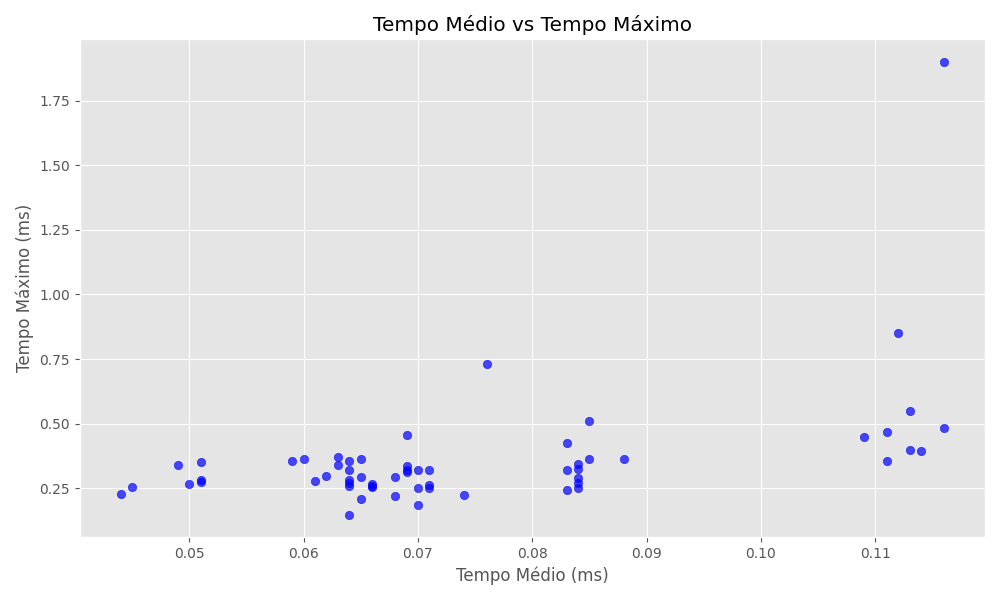
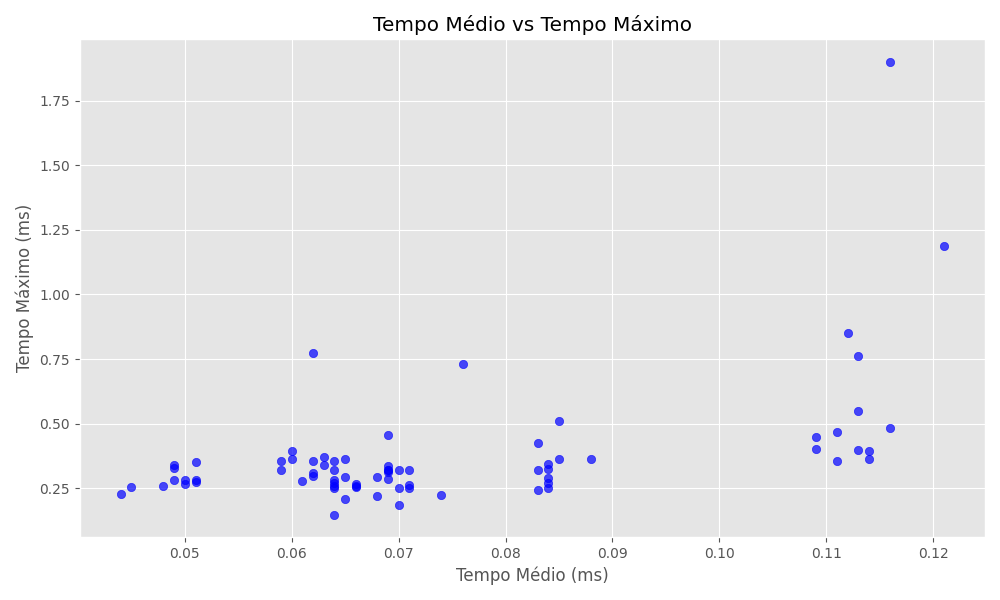
Save novos graficos

diff --git a/generate_graphics.py b/generate_graphics.py
@@ -1,10 +1,12 @@
 import pandas as pd
 import matplotlib.pyplot as plt
+import seaborn as sns
+from math import pi
 
 
-def genrate_praphics(arquivo_csv):
+def generate_graphics(arquivo_csv):
     """
-    Gera gráficos a partir de um arquivo CSV com métricas de desempenho.
+    Gera gráficos avançados para análise de desempenho a partir de um arquivo CSV.
 
     Parâmetros:
     - arquivo_csv (str): Caminho para o arquivo CSV contendo os dados.
@@ -13,58 +15,116 @@ def genrate_praphics(arquivo_csv):
         # Carregar o CSV em um DataFrame
         df = pd.read_csv(arquivo_csv)
 
-        # Configuração do estilo do gráfico (opcional)
+        # Configuração do estilo do gráfico
         plt.style.use("ggplot")
 
-        # 1. Gráfico de Linha para o Tempo Total de Execução
-        plt.figure(figsize=(10, 6))
-        plt.plot(
-            df["indentifier"],
-            df["tempo_de_execucao_total_ms"],
-            marker="o",
-            label="Tempo Total de Execução (ms)",
+        # 1. Resumo Estatístico
+        summary = df.groupby(["local_execucao", "comando"]).agg(
+            media=("tempo_execucao_total_ms", "mean"),
+            mediana=("tempo_execucao_total_ms", "median"),
+            minimo=("tempo_execucao_total_ms", "min"),
+            maximo=("tempo_execucao_total_ms", "max"),
+            desvio=("tempo_execucao_total_ms", "std"),
         )
-        plt.title("Tempo Total de Execução por Identificador")
-        plt.xlabel("Identificador")
+        print("Resumo Estatístico:")
+        print(summary)
+
+        # 2. Heatmap para Comparação de Desempenho
+        pivot = df.pivot_table(
+            index="comando",
+            columns="numero_requisicoes",
+            values="tempo_execucao_total_ms",
+            aggfunc="mean",
+        )
+        plt.figure(figsize=(12, 8))
+        sns.heatmap(pivot, annot=True, fmt=".2f", cmap="coolwarm")
+        plt.title("Heatmap: Tempo Médio de Execução por Comando e Requisição")
+        plt.xlabel("Número de Requisições")
+        plt.ylabel("Comando")
+        plt.tight_layout()
+        plt.savefig("heatmap_tempo_execucao.png")
+
+        # 3. Gráfico de Velocidade Relativa
+        df["relativo"] = df.groupby("comando")["tempo_execucao_total_ms"].transform(
+            lambda x: x / x.min()
+        )
+        plt.figure(figsize=(10, 6))
+        sns.boxplot(
+            x="local_execucao",
+            y="relativo",
+            data=df,
+            palette="muted",
+        )
+        plt.title("Velocidade Relativa por Local de Execução")
+        plt.xlabel("Local de Execução")
+        plt.ylabel("Velocidade Relativa")
+        plt.tight_layout()
+        plt.savefig("velocidade_relativa.png")
+
+        # 4. Distribuição de Tempos com Violin Plot
+        plt.figure(figsize=(12, 8))
+        sns.violinplot(
+            x="numero_requisicoes",
+            y="tempo_execucao_total_ms",
+            hue="local_execucao",
+            data=df,
+            split=True,
+            palette="muted",
+        )
+        plt.title("Distribuição de Tempo por Número de Requisições e Local")
+        plt.xlabel("Número de Requisições")
         plt.ylabel("Tempo Total de Execução (ms)")
-        plt.xticks(rotation=45)
-        plt.legend()
-        plt.grid(True)
         plt.tight_layout()
-        plt.savefig("tempo_total_execucao.png")
-        plt.show()
+        plt.savefig("distribuicao_tempo.png")
 
-        # 2. Gráfico de Dispersão para Tempo Médio vs Tempo Máximo
+        # 5. Evolução do Tempo Médio com Erro
+        means = df.groupby("numero_requisicoes")["tempo_execucao_total_ms"].mean()
+        stds = df.groupby("numero_requisicoes")["tempo_execucao_total_ms"].std()
         plt.figure(figsize=(10, 6))
-        plt.scatter(
-            df["tempo_medio_ms"], df["tempo_maximo_ms"], color="blue", alpha=0.7
+        plt.errorbar(
+            means.index,
+            means,
+            yerr=stds,
+            fmt="o-",
+            capsize=5,
+            label="Tempo Médio (ms)",
         )
-        plt.title("Tempo Médio vs Tempo Máximo")
-        plt.xlabel("Tempo Médio (ms)")
-        plt.ylabel("Tempo Máximo (ms)")
+        plt.title("Evolução do Tempo Médio com Margem de Erro")
+        plt.xlabel("Número de Requisições")
+        plt.ylabel("Tempo Médio de Execução (ms)")
         plt.grid(True)
-        plt.tight_layout()
-        plt.savefig("tempo_medio_vs_maximo.png")
-        plt.show()
-
-        # 3. Gráfico de Barras para Desvio Padrão
-        plt.figure(figsize=(10, 6))
-        plt.bar(
-            df["indentifier"],
-            df["desvio_padrao_ms"],
-            color="orange",
-            label="Desvio Padrão (ms)",
-        )
-        plt.title("Desvio Padrão por Identificador")
-        plt.xlabel("Identificador")
-        plt.ylabel("Desvio Padrão (ms)")
-        plt.xticks(rotation=45)
         plt.legend()
         plt.tight_layout()
-        plt.savefig("desvio_padrao.png")
-        plt.show()
+        plt.savefig("evolucao_tempo_medio.png")
 
-        print("Gráficos gerados com sucesso e salvos como imagens!")
+        # 6. Radar Chart para Comparação Geral
+        metrics = ["tempo_execucao_total_ms", "tempo_medio_ms", "desvio_padrao_ms"]
+        summary_radar = df.groupby("local_execucao")[metrics].mean()
+
+        # Preparar dados para radar
+        labels = summary_radar.columns
+        num_vars = len(labels)
+        angles = [n / float(num_vars) * 2 * pi for n in range(num_vars)]
+        angles += angles[:1]
+
+        plt.figure(figsize=(8, 8))
+        ax = plt.subplot(111, polar=True)
+        for idx, row in summary_radar.iterrows():
+            values = row.tolist() + row.tolist()[:1]
+            ax.plot(angles, values, label=idx)
+            ax.fill(angles, values, alpha=0.1)
+
+        plt.xticks(angles[:-1], labels)
+        plt.title("Comparação de Desempenho por Local")
+        plt.legend(loc="upper right")
+        plt.tight_layout()
+        plt.savefig("radar_comparacao.png")
+
+        print("Gráficos avançados gerados com sucesso e salvos como imagens!")
 
     except Exception as e:
         print(f"Erro ao gerar gráficos: {e}")
+
+
+# Exemplo de uso
+# generate_advanced_graphics("resultados.csv")

diff --git a/main_script.py b/main_script.py
@@ -3,7 +3,7 @@ import json
 import os
 from parse_argument import get_argments
 from save_csv import save_csv
-from generate_graphics import genrate_praphics
+from generate_graphics import generate_graphics
 
 
 # Função para executar scripts usando Docker Compose
@@ -54,9 +54,18 @@ def execute_docker_compose(
         # Executa o comando
         resultado = subprocess.run(docker_command, text=True, capture_output=True)
 
+        # Verifica se houve escrita em tela ou em arquivo
+        print_written = bool(resultado.stdout.strip())
+        file_written = os.path.exists(output_file)
+
         # Estrutura os resultados em um dicionário
         new_output = {
-            "indentifier": " ".join(["docker", str(requests), command]),
+            "execution_location": "docker",
+            "requests": requests,
+            "command": command,
+            "keep": keep,
+            "print_written": print_written,
+            "file_written": file_written,
             "stdout": resultado.stdout.strip(),
             "stderr": resultado.stderr.strip(),
             "returncode": resultado.returncode,
@@ -67,8 +76,7 @@ def execute_docker_compose(
 
     except Exception as e:
         print(f"Erro ao executar o comando Docker: {e}")
-
-    compose_down(compose_file)
+    ...
 
 
 # Função para executar scripts localmente
@@ -111,9 +119,18 @@ def execute_local(
         # Executa o comando localmente
         resultado = subprocess.run(local_command, text=True, capture_output=True)
 
+        # Verifica se houve escrita em tela ou em arquivo
+        print_written = bool(resultado.stdout.strip())
+        file_written = os.path.exists(output_file)
+
         # Estrutura os resultados em um dicionário
         new_output = {
-            "indentifier": " ".join(["local", str(requests), command]),
+            "execution_location": "local",
+            "requests": requests,
+            "command": command,
+            "keep": keep,
+            "print_written": print_written,
+            "file_written": file_written,
             "stdout": resultado.stdout.strip(),
             "stderr": resultado.stderr.strip(),
             "returncode": resultado.returncode,
@@ -169,4 +186,4 @@ if __name__ == "__main__":
             output_file=args.output_file,
         )
 
-    genrate_praphics(args.output_file)  # TODO: Melhoria nos gráficos
+    generate_graphics(args.output_file)  # TODO: Melhoria nos gráficos

diff --git a/save_csv.py b/save_csv.py
@@ -22,7 +22,12 @@ def process_stdout(stdout):
 def save_csv(output_file, new_output):
     # Define os campos para o CSV
     fields = [
-        "indentifier",
+        "execution_location",
+        "requests",
+        "command",
+        "keep",
+        "print_written",
+        "file_written",
         "tempo_de_execucao_total_ms",
         "tempo_medio_ms",
         "tempo_minimo_ms",
@@ -37,7 +42,12 @@ def save_csv(output_file, new_output):
 
     # Monta os dados para a linha do CSV
     csv_row = {
-        "indentifier": new_output.get("indentifier", ""),
+        "execution_location": new_output.get("execution_location", ""),
+        "requests": new_output.get("requests", ""),
+        "command": new_output.get("command", ""),
+        "keep": new_output.get("keep", ""),
+        "print_written": new_output.get("print_written", ""),
+        "file_written": new_output.get("file_written", ""),
         "tempo_de_execucao_total_ms": metrics.get("tempo_de_execucao_total_ms", ""),
         "tempo_medio_ms": metrics.get("tempo_medio_ms", ""),
         "tempo_minimo_ms": metrics.get("tempo_minimo_ms", ""),
@@ -47,16 +57,16 @@ def save_csv(output_file, new_output):
         "returncode": new_output.get("returncode", ""),
     }
 
-    # Cria ou abre o arquivo CSV
+    # Abre ou cria o arquivo CSV
     file_exists = os.path.isfile(output_file)
     with open(output_file, mode="a", newline="", encoding="utf-8") as csvfile:
         writer = csv.DictWriter(csvfile, fieldnames=fields)
 
-        # Escreve o cabeçalho se o arquivo não existir
+        # Escreve o cabeçalho apenas na primeira vez
         if not file_exists:
             writer.writeheader()
 
-        # Adiciona a nova linha com os dados extraídos
+        # Adiciona a nova linha com os dados
         writer.writerow(csv_row)
 
     print(f"Saída adicionada ao arquivo {output_file}")
